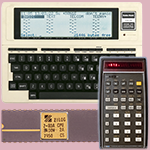
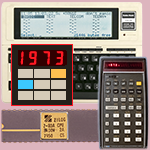
HP-1973 changes to existing files

Changed region(s): [[0.0533, 0.2933, 0.5067, 0.72]]

diff --git a/retroindex.html b/retroindex.html
@@ -20,7 +20,17 @@ a {color:orange;}
 <p>You're free to do as you please with the code, under a "don't be unpleasant" licence: don't pass it off as all your own work; don't host the files elsewhere (because keeping them here means I can control updates); and so on.</p>
 <p>If you find an issue with some of the code, do let me know. I can't promise I'll fix it, but I'll at least update these pages with a note, so other people are aware of the problem. You can reach me at Z80Sarah at the well-known provider which also has a very successful search engine starting with the seventh letter of the alphabet.<br><br></p>
 
+<h2>HP-1973</h2>
+<p><a href="retrohp1973.html">HP-1973</a> is a simulator which runs the (included) ROM code of the HP-35, HP-45 and HP-80 RPN calculators. It includes everything necessary to follow the internal workings of those calculators: ROM maps, execution listings, internal variables, etc. Plus! it comes with pages of help screens which explain the simulator and calculators and! it includes seven different colour themes. Although written in Python, standalone versions are included so you don't need an existing Python installation to run it on MacOS or Windows. It will also run on Linux and probably anything else with a 1920x1080 screen and Python 3.10.10+. It looks like this:</p>
+<div style="text-align: center;">
+<img src="hp1973Window.jpg" width=800 height=450>
+</div>
+<div style="text-align: right;">
+<p><a href="retrohp1973.html">Go to HP-1973.</a><br></p>
+</div>
+
 <h2>HP45TERM</h2>
+<p><b>You probably don't want to use HP45TERM.</b> It works perfectly well — and is your only option if you're using a Z80-MBC2 — but <a href="retrohp1973.html">HP-1973</a> (above) includes more calculators, provides much more information about them, and uses internal code which more closely duplicates the hardware implementation of the original calculators.</p>
 <p><a href="retrohp45term.html">HP45TERM</a> is a simulator which runs the ROM code of the HP-45 RPN calculator in a terminal. You can read more about the HP-45 <a href="https://www.hpmuseum.org/hp45.htm">here</a>. Probably the most hauntologically retro calculator you can get. The emulator works on MacOS, Windows, Linux, Raspberry Pi OS (32 bit), and under CP/M on the Z80-MBC2. It looks like this:</p>
 <div style="text-align: center;">
 <img src="HP45TERM.jpg">

diff --git a/retrohp45term.html b/retrohp45term.html
@@ -14,6 +14,8 @@ a {color:orange;}
 
 <h1>Retrocomputing Pages: HP45TERM</h1>
 
+<p><b>Hi! Sarah here, adding a note in July 2023. You probably don't want to use HP45TERM. It works perfectly well — and is your only option if you're using a Z80-MBC2 — but <a href="retrohp1973.html">HP1973</a> includes more calculators, provides much more information about them, and uses internal code which more closely duplicates the hardware implementation of the original calculators. Why not try that, instead?</b></p>
+
 <p>Quick download link: <a href="hp45term.zip">HP45TERM</a></p>
 
 <p>I love the HP-45 calculator. It's beautiful on the outside, but I wanted to show people that it's beautiful on the inside, too. So, as a coding and retrocomputing challenge I wrote a simulator.</p>
